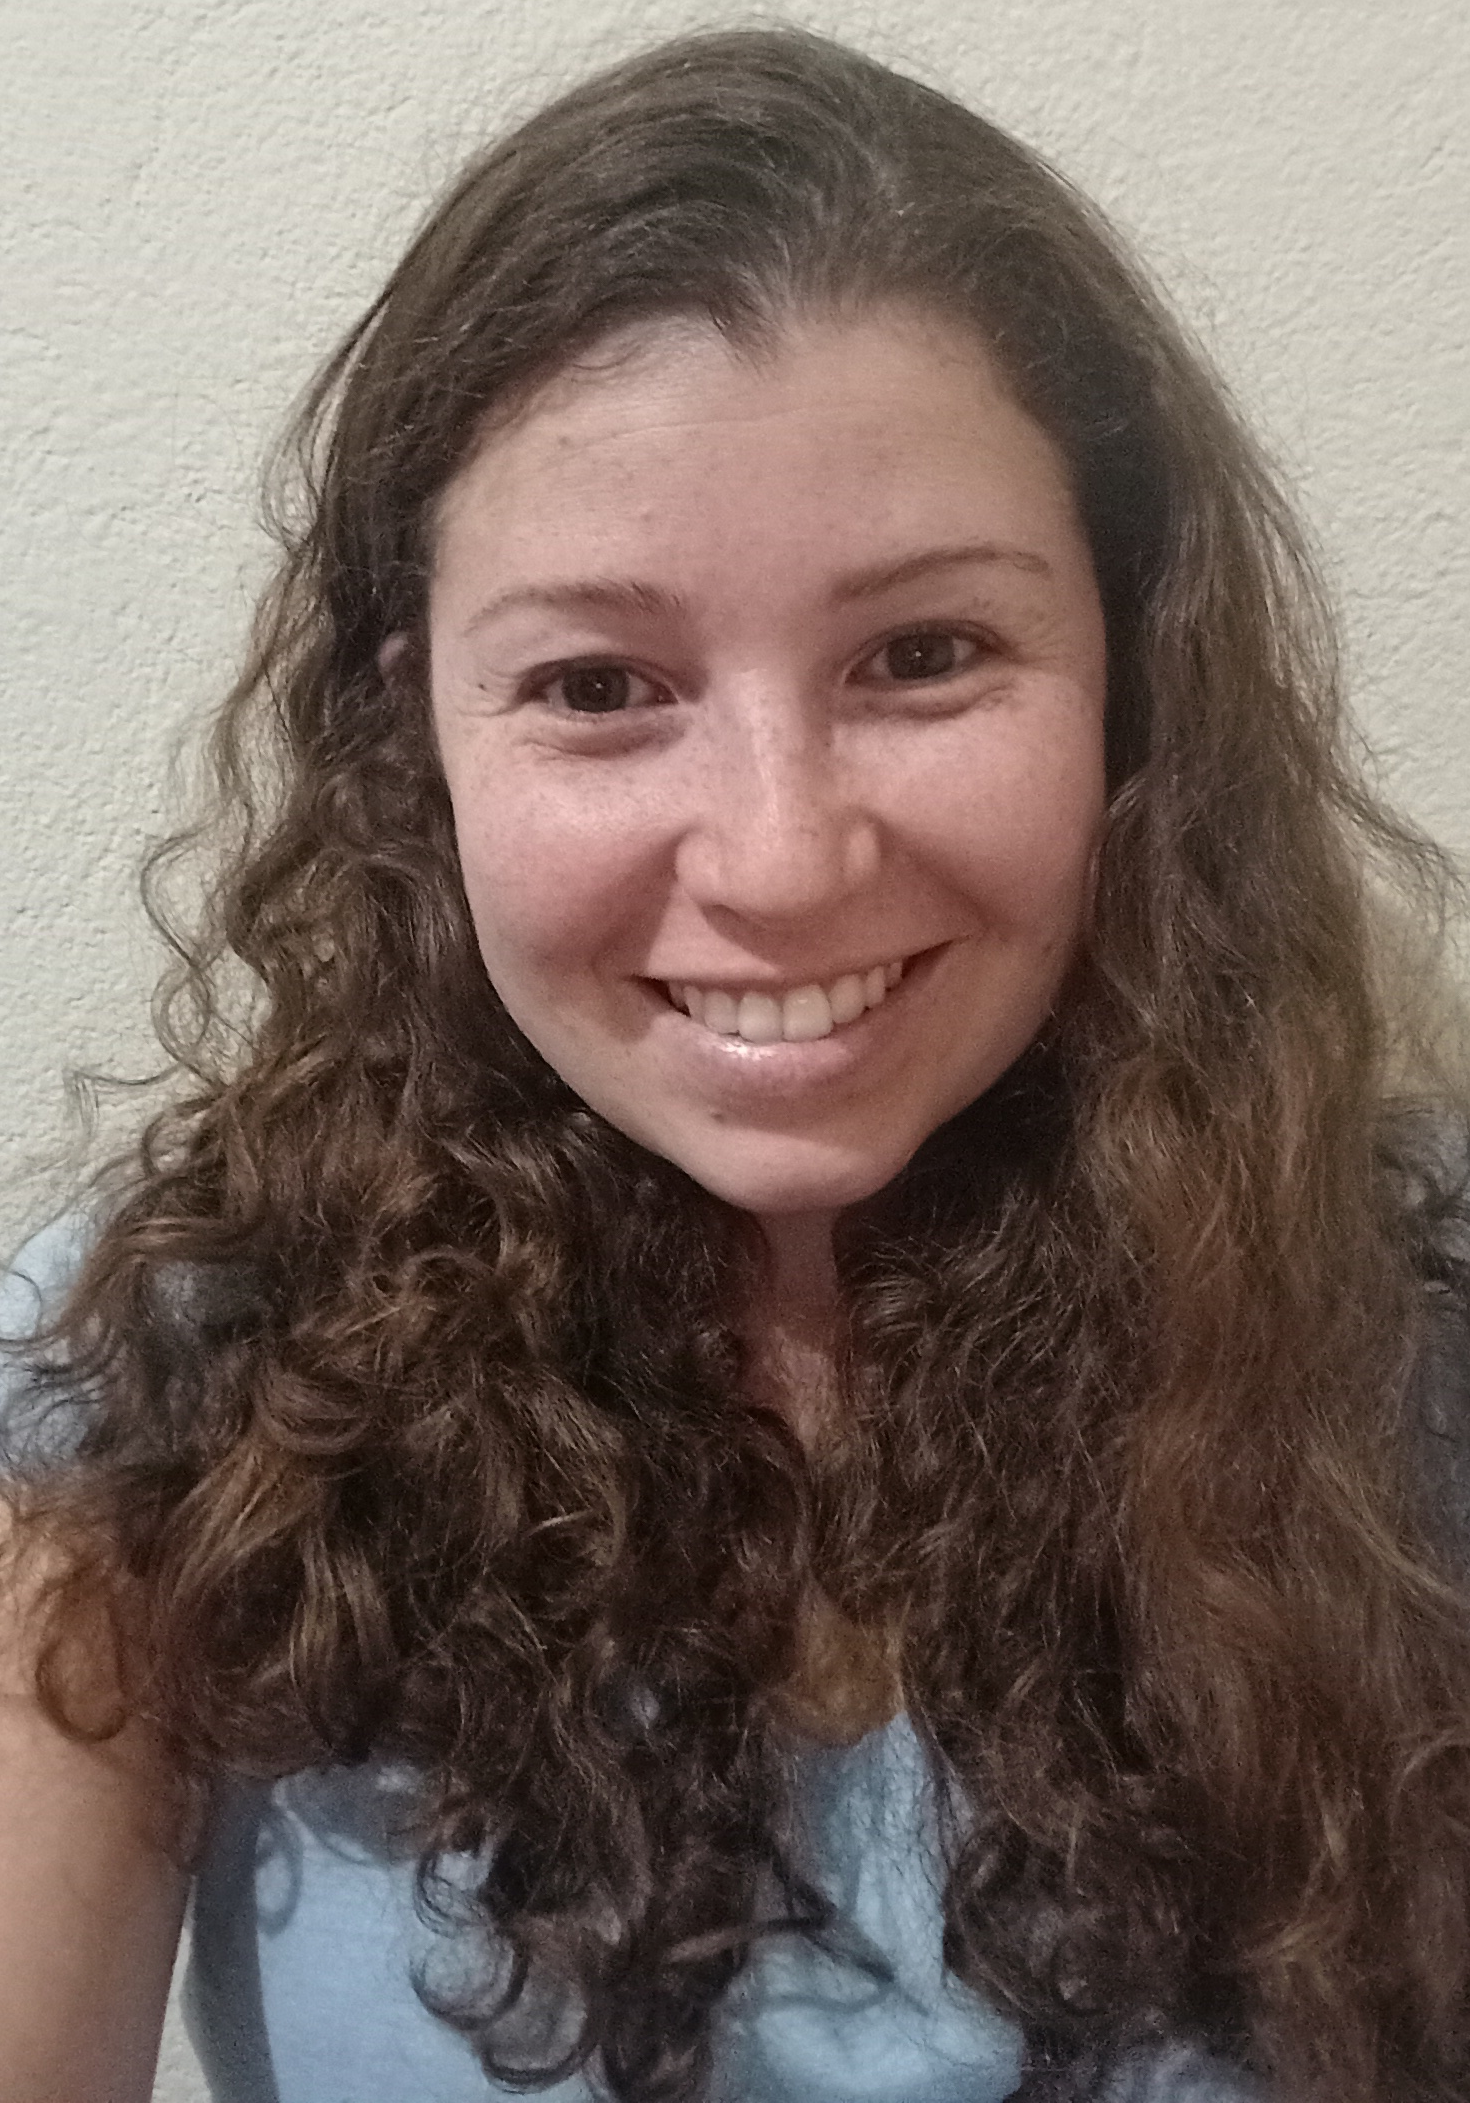
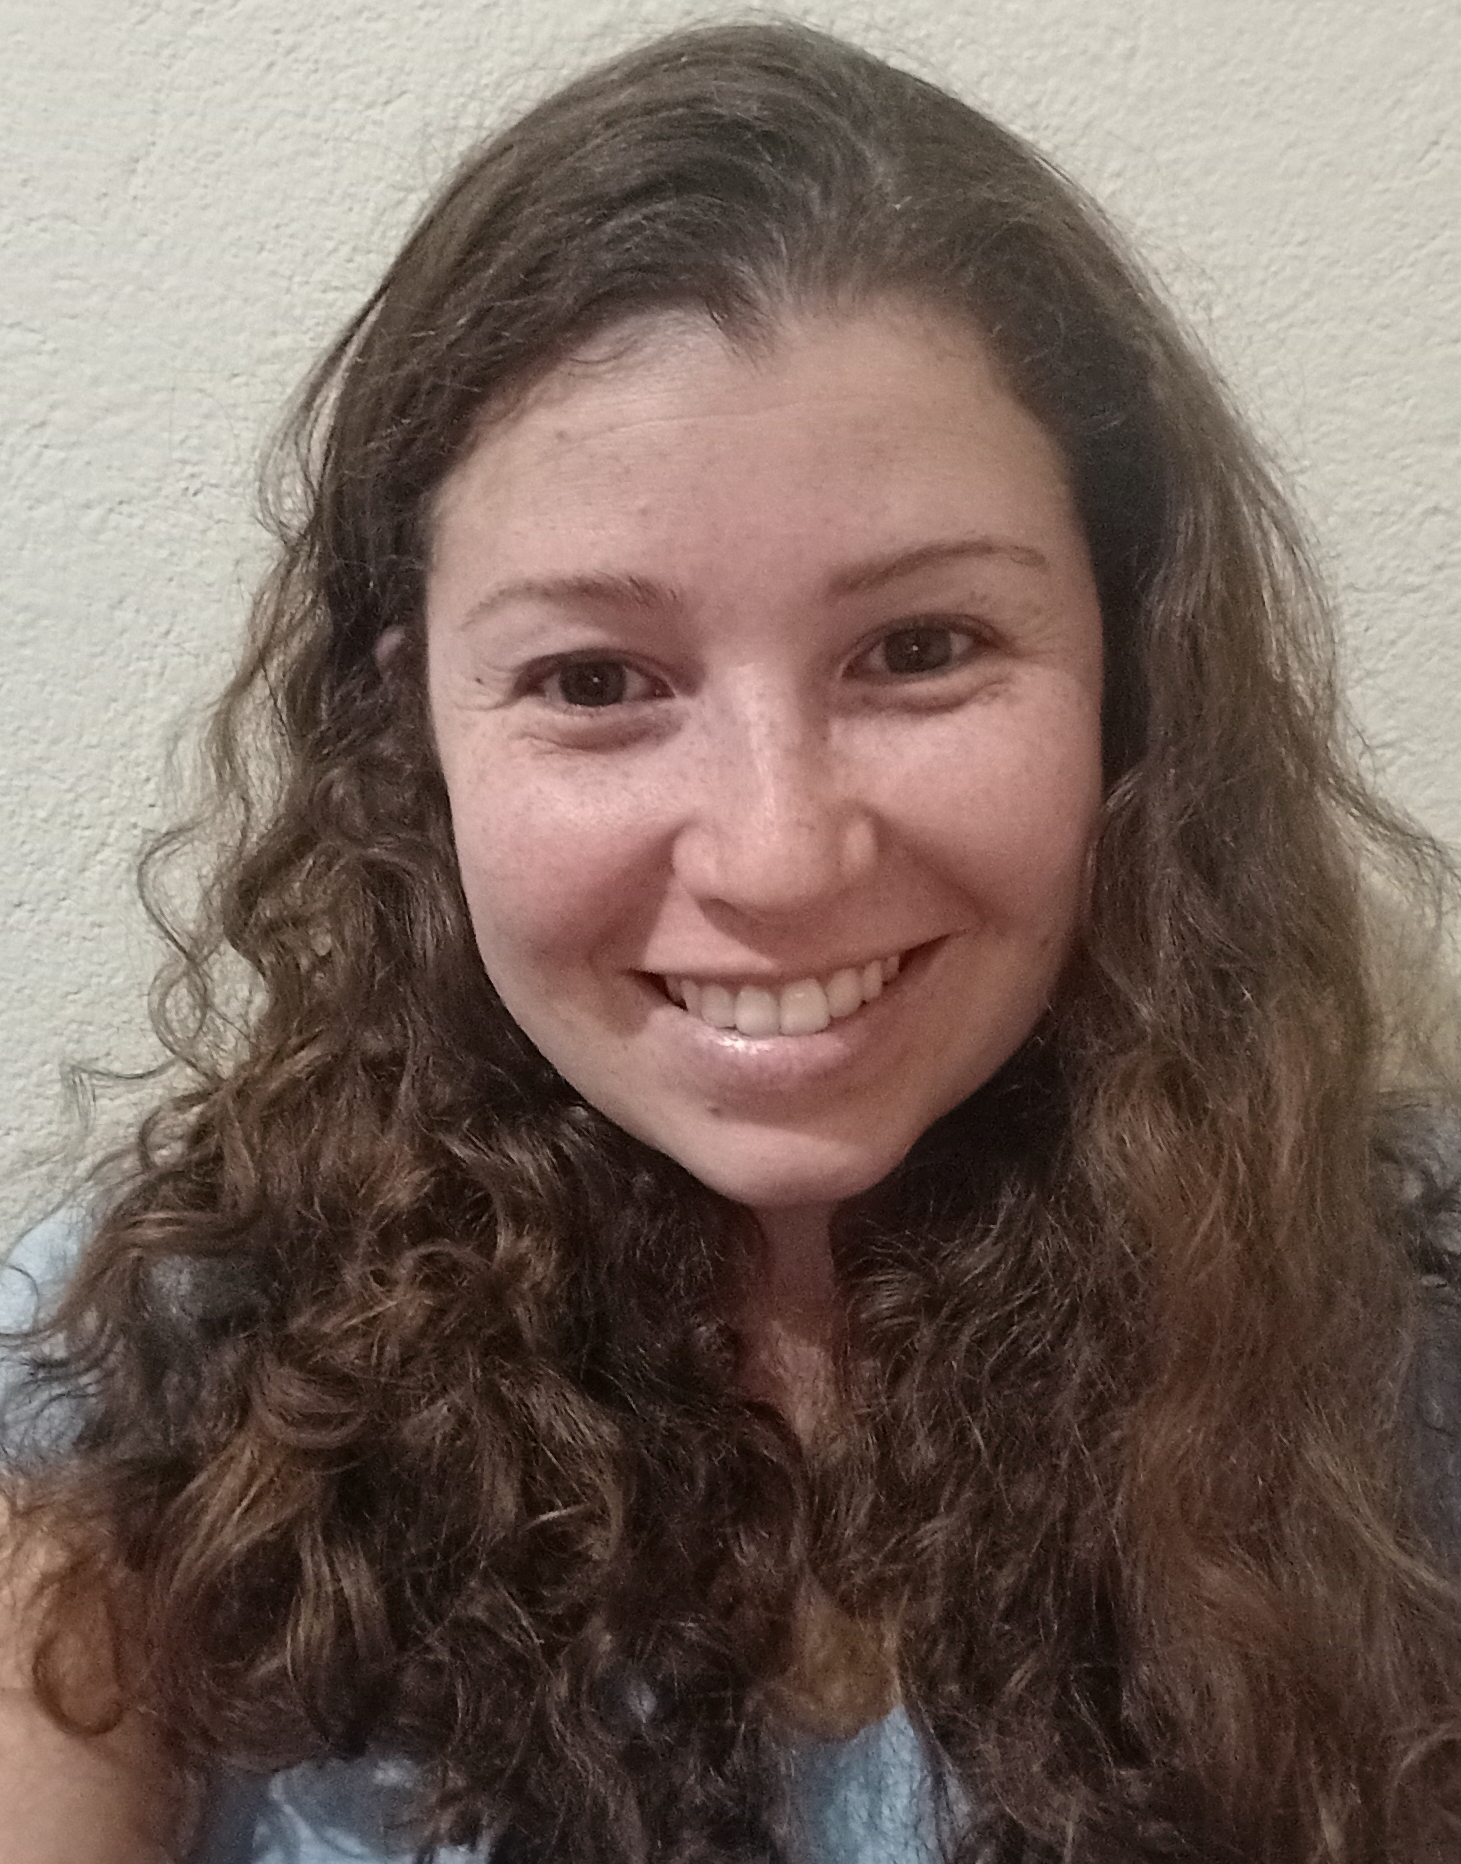
finished welcome page with effects

diff --git a/src/components/NavBar.tsx b/src/components/NavBar.tsx
@@ -1,22 +1,20 @@
-import styled from 'styled-components/dist/constructors/styled';
-import './index.css';
+import styled from  "styled-components";
 
 const NavBar = () => {
   return (
     <NavBarStyle>
-      <div id="profile">
+      <Profile>
         <img id="cvPicture" src="./assets/cv_image.png" alt="cvPicture" />
-        <h1 id="myName">Annylory Rosa</h1>
+        <a id="myName" href="#about">Annylory Rosa</a>
+      </Profile>
 
-      </div>
-      
-      <div className="menu">
-        <a href="#about" className="hover:text-blue-500 transition-colors">About me</a>
-        <a href="#skills" className="hover:text-blue-500 transition-colors">What I do</a>
-        <a href="#resume" className="hover:text-blue-500 transition-colors">Resume</a>
-        <a href="#portfolio" className="hover:text-blue-500 transition-colors">Portfolio</a>
-        <a href="#contact" className="hover:text-blue-500 transition-colors">Contact</a>
-      </div>
+      <Menu>
+        <a href="#about" >About me</a>
+        <a href="#skills" >What I do</a>
+        <a href="#resume" >Resume</a>
+        <a href="#portfolio" >Portfolio</a>
+        <a href="#contact">Contact</a>
+      </Menu>
     </NavBarStyle>
   );
 };
@@ -24,43 +22,53 @@ const NavBar = () => {
 export default NavBar;
 
 const NavBarStyle = styled.nav`
-   background-color: #343A40;
+  background-color: #111418;
    height: 100vh;
-   width:15%;
+   width:13%;
    display: flex;
    flex-direction: column;
    align-items: center;
-   border-right: 1px solid black;
-   #profile{
-    margin-top: 2rem;
-    display: flex;
-    flex-direction: column;
-    align-items: center;
-   }
-   #myName{
-    font-size: 1.2rem;
-    font-weight: 500;
-    margin-bottom: 2rem;
-    color:aliceblue;
-   }
-   #cvPicture{
-    object-fit: contain;
+`
+const Profile = styled.div`
+  margin-top: 2rem;
+  display: flex;
+  flex-direction: column;
+  align-items: center;
+
+  a{
+    color: aliceblue;
+    font-size: 1.1rem;
+    text-decoration: none;
+    transition: color 0.3s ease;
+    &:hover {
+      color: #0c71ec;
+    }
+  
+  }
+  img{
     background-color: #d5d2c9;
     border: 3px solid #343A40;
     width: 150px;
     height: 150px;
     border-radius: 50%;
     margin-bottom: 1rem;
-   }
-   a{
-        text-decoration: none;
-        color: aliceblue;/* #3a6abd*/;
-        font-size: 1.0rem;          
-    } 
-   .menu{
-    display: flex;
-    flex-direction: column;
-    gap: 1rem;
-    margin-top: 5rem;
+    object-fit: contain;
   }
-`;
+`
+
+const Menu = styled.div`
+
+  display: flex;
+  flex-direction: column;
+  gap: 1rem;
+  margin-top: 5rem;
+  a{
+    color: aliceblue;
+    font-size: 1.1rem;
+    text-decoration: none;
+    transition: color 0.3s ease;
+    &:hover {
+      color: #0c71ec;
+    }
+  }
+`

diff --git a/src/components/Welcome.tsx b/src/components/Welcome.tsx
@@ -1,11 +1,17 @@
 import styled from "styled-components";
+import Typewriter from "typewriter-effect";
 const Welcome = () => {
     return (
-        <WelcomeStyle>
-                <div id="welcomeText">
-                    <h1 id="welcome"> Welcome! </h1>
-                    <p id="welcomeText"> My name is Annylory. I am a Developer and that's my cat, Linus!</p>
-                </div>
+        <WelcomeStyle>                
+                    <WelcomeText> Welcome! </WelcomeText>
+                    <Title> 
+                        <Typewriter options={
+                            { strings: ['My name is Annylory.', 'You can call me Anny.', "I'm a Developer.", 'And that is my cat: Linus!'],
+                             autoStart: true, loop: true }} /> 
+                        </Title>
+                
+                    <HireMeButton> Hire Me </HireMeButton>
+
         </WelcomeStyle>
      )
         
@@ -17,33 +23,50 @@ export default Welcome;
 
 const WelcomeStyle = styled.div`
    
-   height: 100dvh;
-   width: 85%;
-   display: flex;
-   flex-direction: column;
-   align-items: center;
-   justify-content: center;
-   background-image: url('./assets/welcomePage.png');
-   opacity: 0.5;
-   background-size: cover;
-   background-position: center;
-   background-repeat: no-repeat;
-  #welcomeText{
+    height: 100vh;
+    width: 87%;
+    display: flex;
+    flex-direction: column;
+    align-items: center;
+    justify-content: center;
+    background: linear-gradient(rgba(0, 0, 0, 0.8), rgba(0, 0, 0, 0.8)), 
+               url('./assets/welcomePage.png') center/cover no-repeat;
+    color: white;
+    text-align: center;
+    padding: 0 20px;
+`
+const Title = styled.h1`
+    font-size:  clamp(1rem, 5vw, 2rem);
+    font-weight: 500;
+    color: aliceblue;
     display: flex;
     flex-direction: column;
     align-items: center;
     gap: 1rem;
-   }
-   #welcome{
-    font-size: 3rem;
-    font-weight: 700;
+`
+const WelcomeText = styled.p`
+    margin-bottom:100px;
+    font-size: clamp(1rem, 5vw, 2rem);
+    font-weight: 400;
     color: aliceblue;
-   }
-   #welcomeText{
-    font-size: 1.5rem;
-    font-weight: 500;
-    color: aliceblue;
-             
-   }`
-
-
+    display: flex;
+    flex-direction: column;
+    align-items: center;            
+`
+const HireMeButton = styled.button`
+    margin-top: 70px;
+    width:150px;
+    height: 40px;
+    background-color: none;
+    border: 2px solid white;
+    border-radius: 20px;
+    color: white;
+    font-size: 0.8rem;
+    cursor: pointer;
+    &:hover {
+        background-color: black;
+        color:#006ff7;
+        border: 2px solid #16171D;
+        transition: color 0.3s ease;
+    }
+`

diff --git a/src/components/AboutMe.tsx b/src/components/AboutMe.tsx
@@ -1,0 +1,51 @@
+import styled from "styled-components";
+
+const AboutMe = () => {
+    
+        return (
+        <AboutMeStyle>
+            <Title> About Me </Title>
+            <Paragraph> Greetings! I am a Full-Stack Developer with a PhD in Pharmacy, which is rather unconventional, 
+                don't you think? I started learning programming during my PhD. I still like chemistry very much,
+                but I love coding more! I work with programming languages and frameworks for Web Development such
+                as JavaScript, React, Node.js, Java and Spring Boot. I've implemented more than 20 systems, so far... 
+                Checkout the <a href='#portfolio'>Portfolio</a> section to see my work!</Paragraph>
+        </AboutMeStyle>
+     )
+}
+
+export default AboutMe;
+
+const AboutMeStyle = styled.div`
+    height: 100vh;
+    width: 87%;
+    display: flex;
+    flex-direction: column;
+    align-items: center;
+    justify-content: center;
+    background-color:#212529;
+    color: aliceblue;
+    text-align: center;
+    padding: 0 20px;
+   
+`
+const Title = styled.h1`
+    font-size: clamp(1.5rem, 5vw, 2.5rem);
+    margin-bottom: 20px;
+    
+`
+const Paragraph = styled.p`
+    font-size: clamp(1rem, 5vw, 1.5rem);
+    line-height: 1.6;
+    text-align: justify;
+    max-width: 800px;
+    margin: 0 auto;
+    color: #555;
+    a {
+        color: #007bff;
+        text-decoration: none;
+        &:hover {
+            text-decoration: underline;
+        }
+    }
+`

diff --git a/src/App.tsx b/src/App.tsx
@@ -1,13 +1,14 @@
+import AboutMe from './components/AboutMe'
 import NavBar from './components/NavBar'
 import Welcome from './components/Welcome'
-
 function App() {
   
 
   return (
     <>
       <NavBar />
-      <Welcome />
+      <Welcome /> 
+      {/* <AboutMe />*/}
     
     </>
   )
